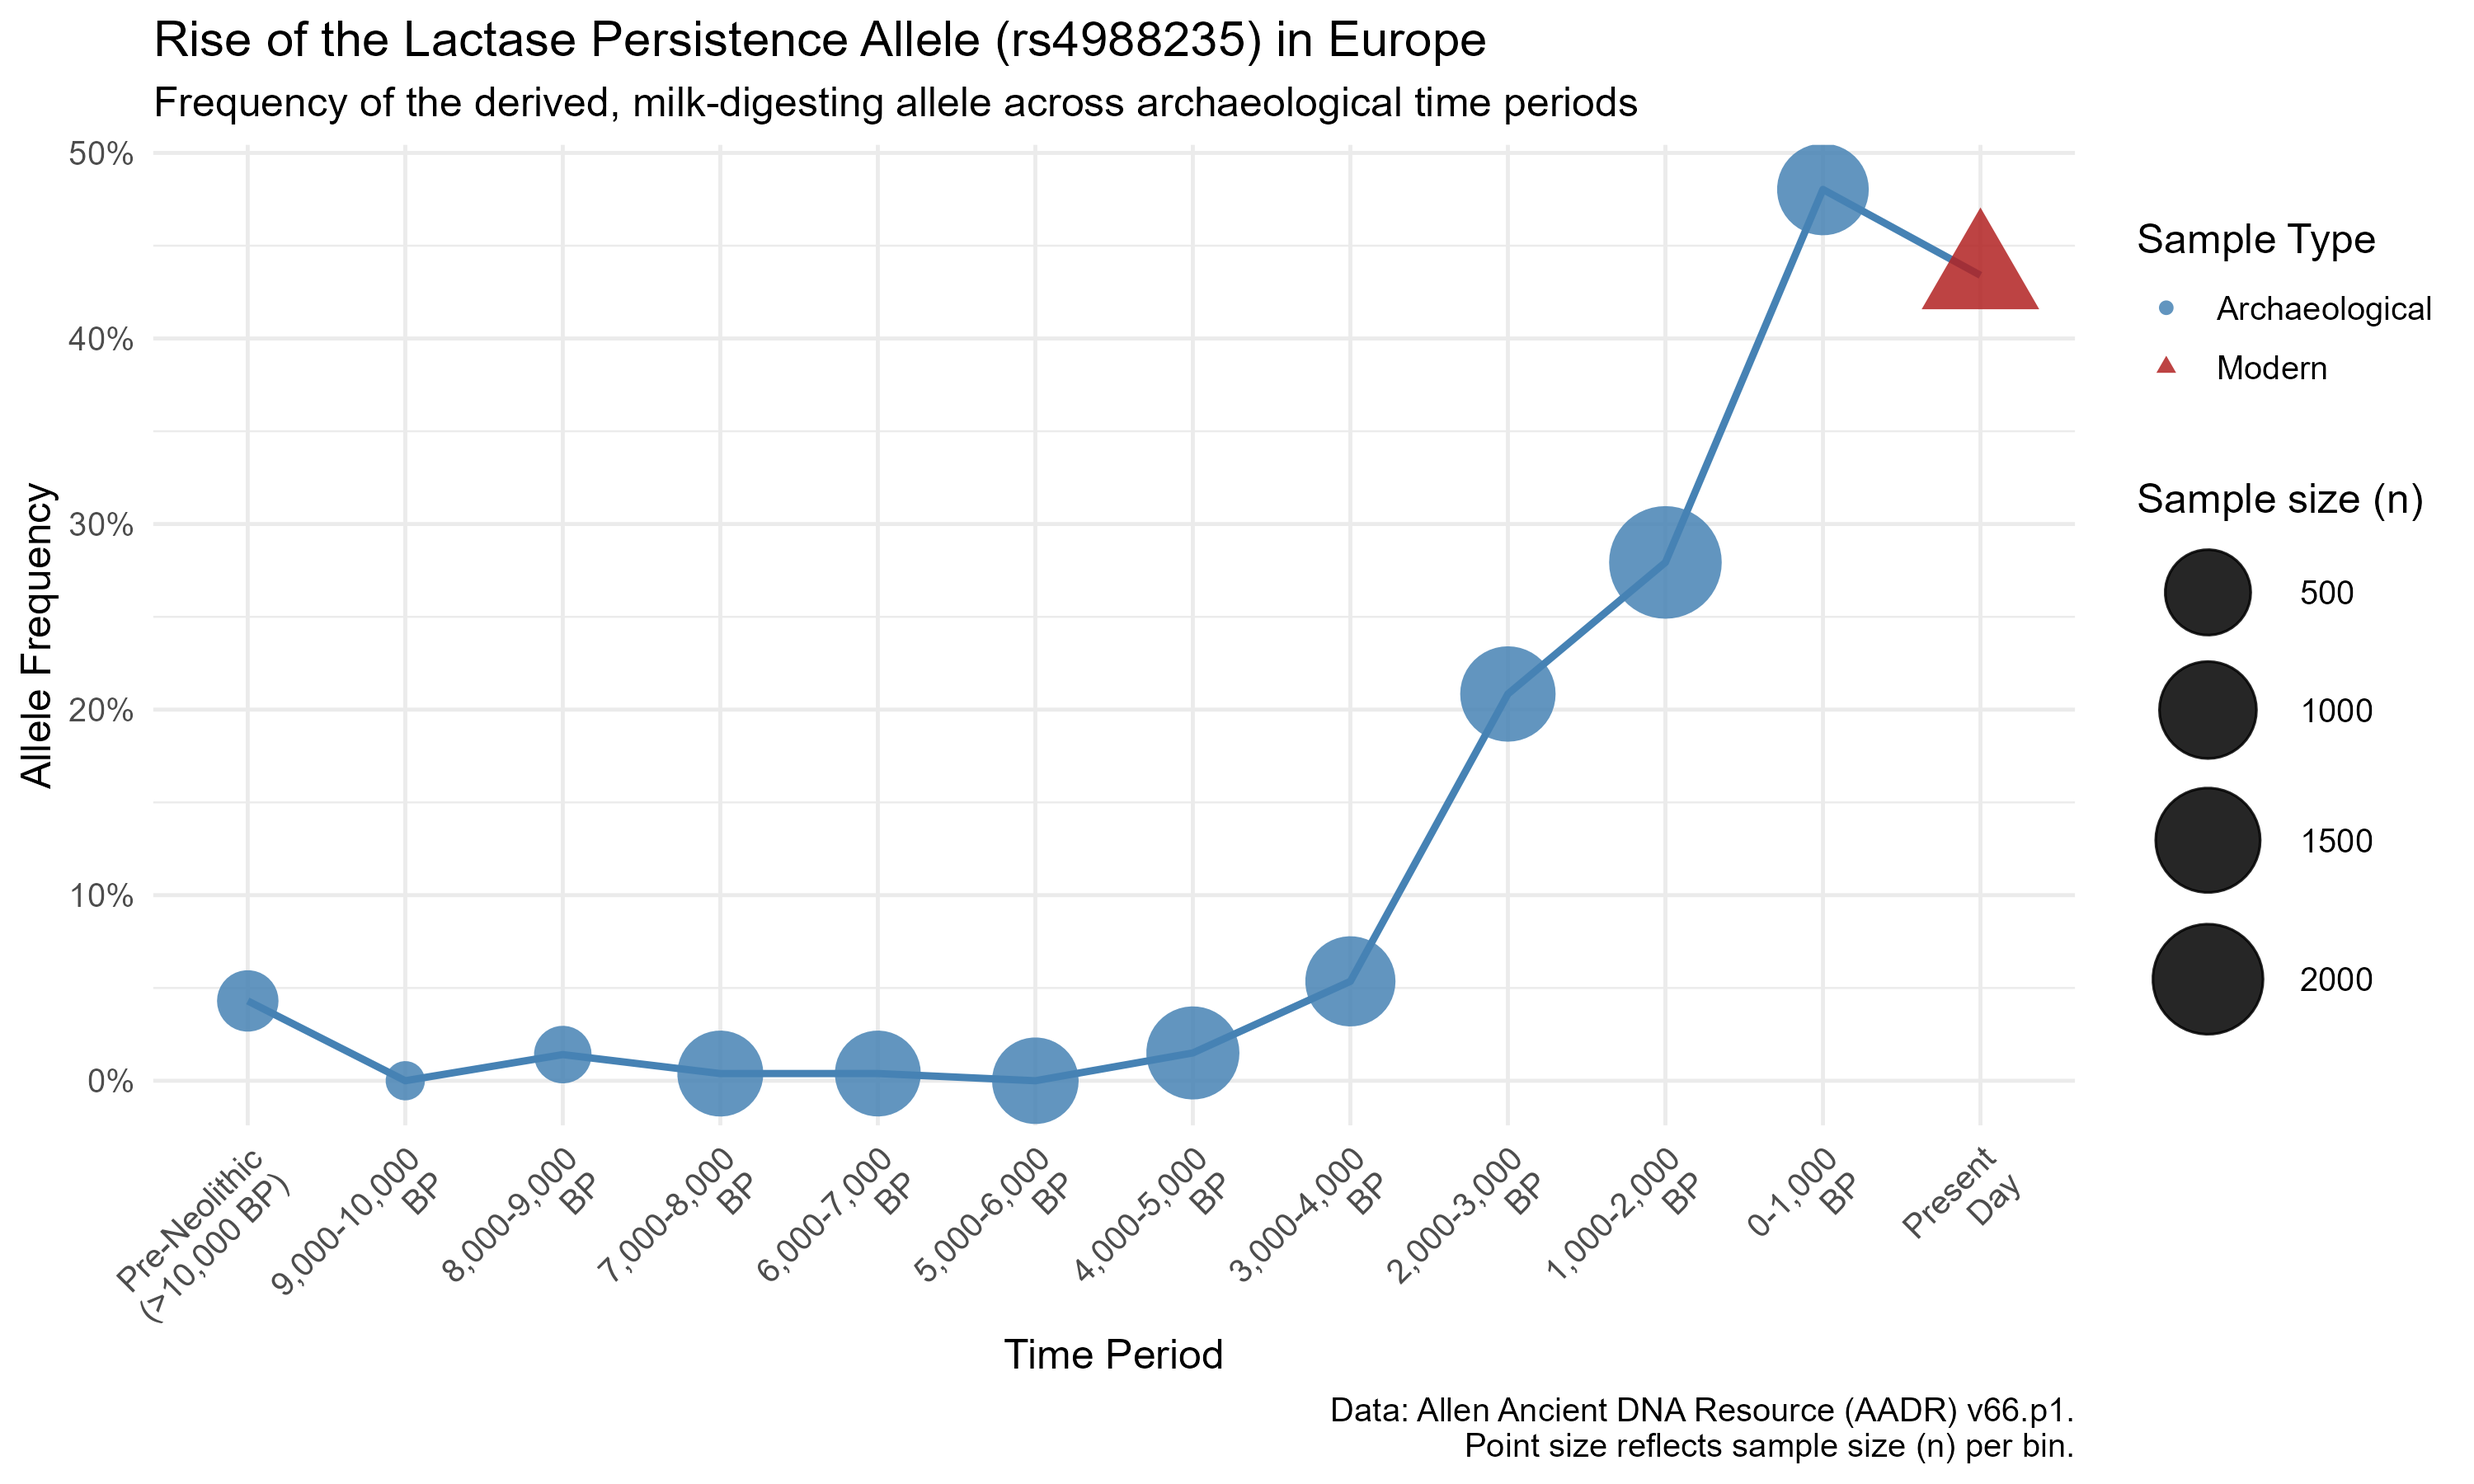
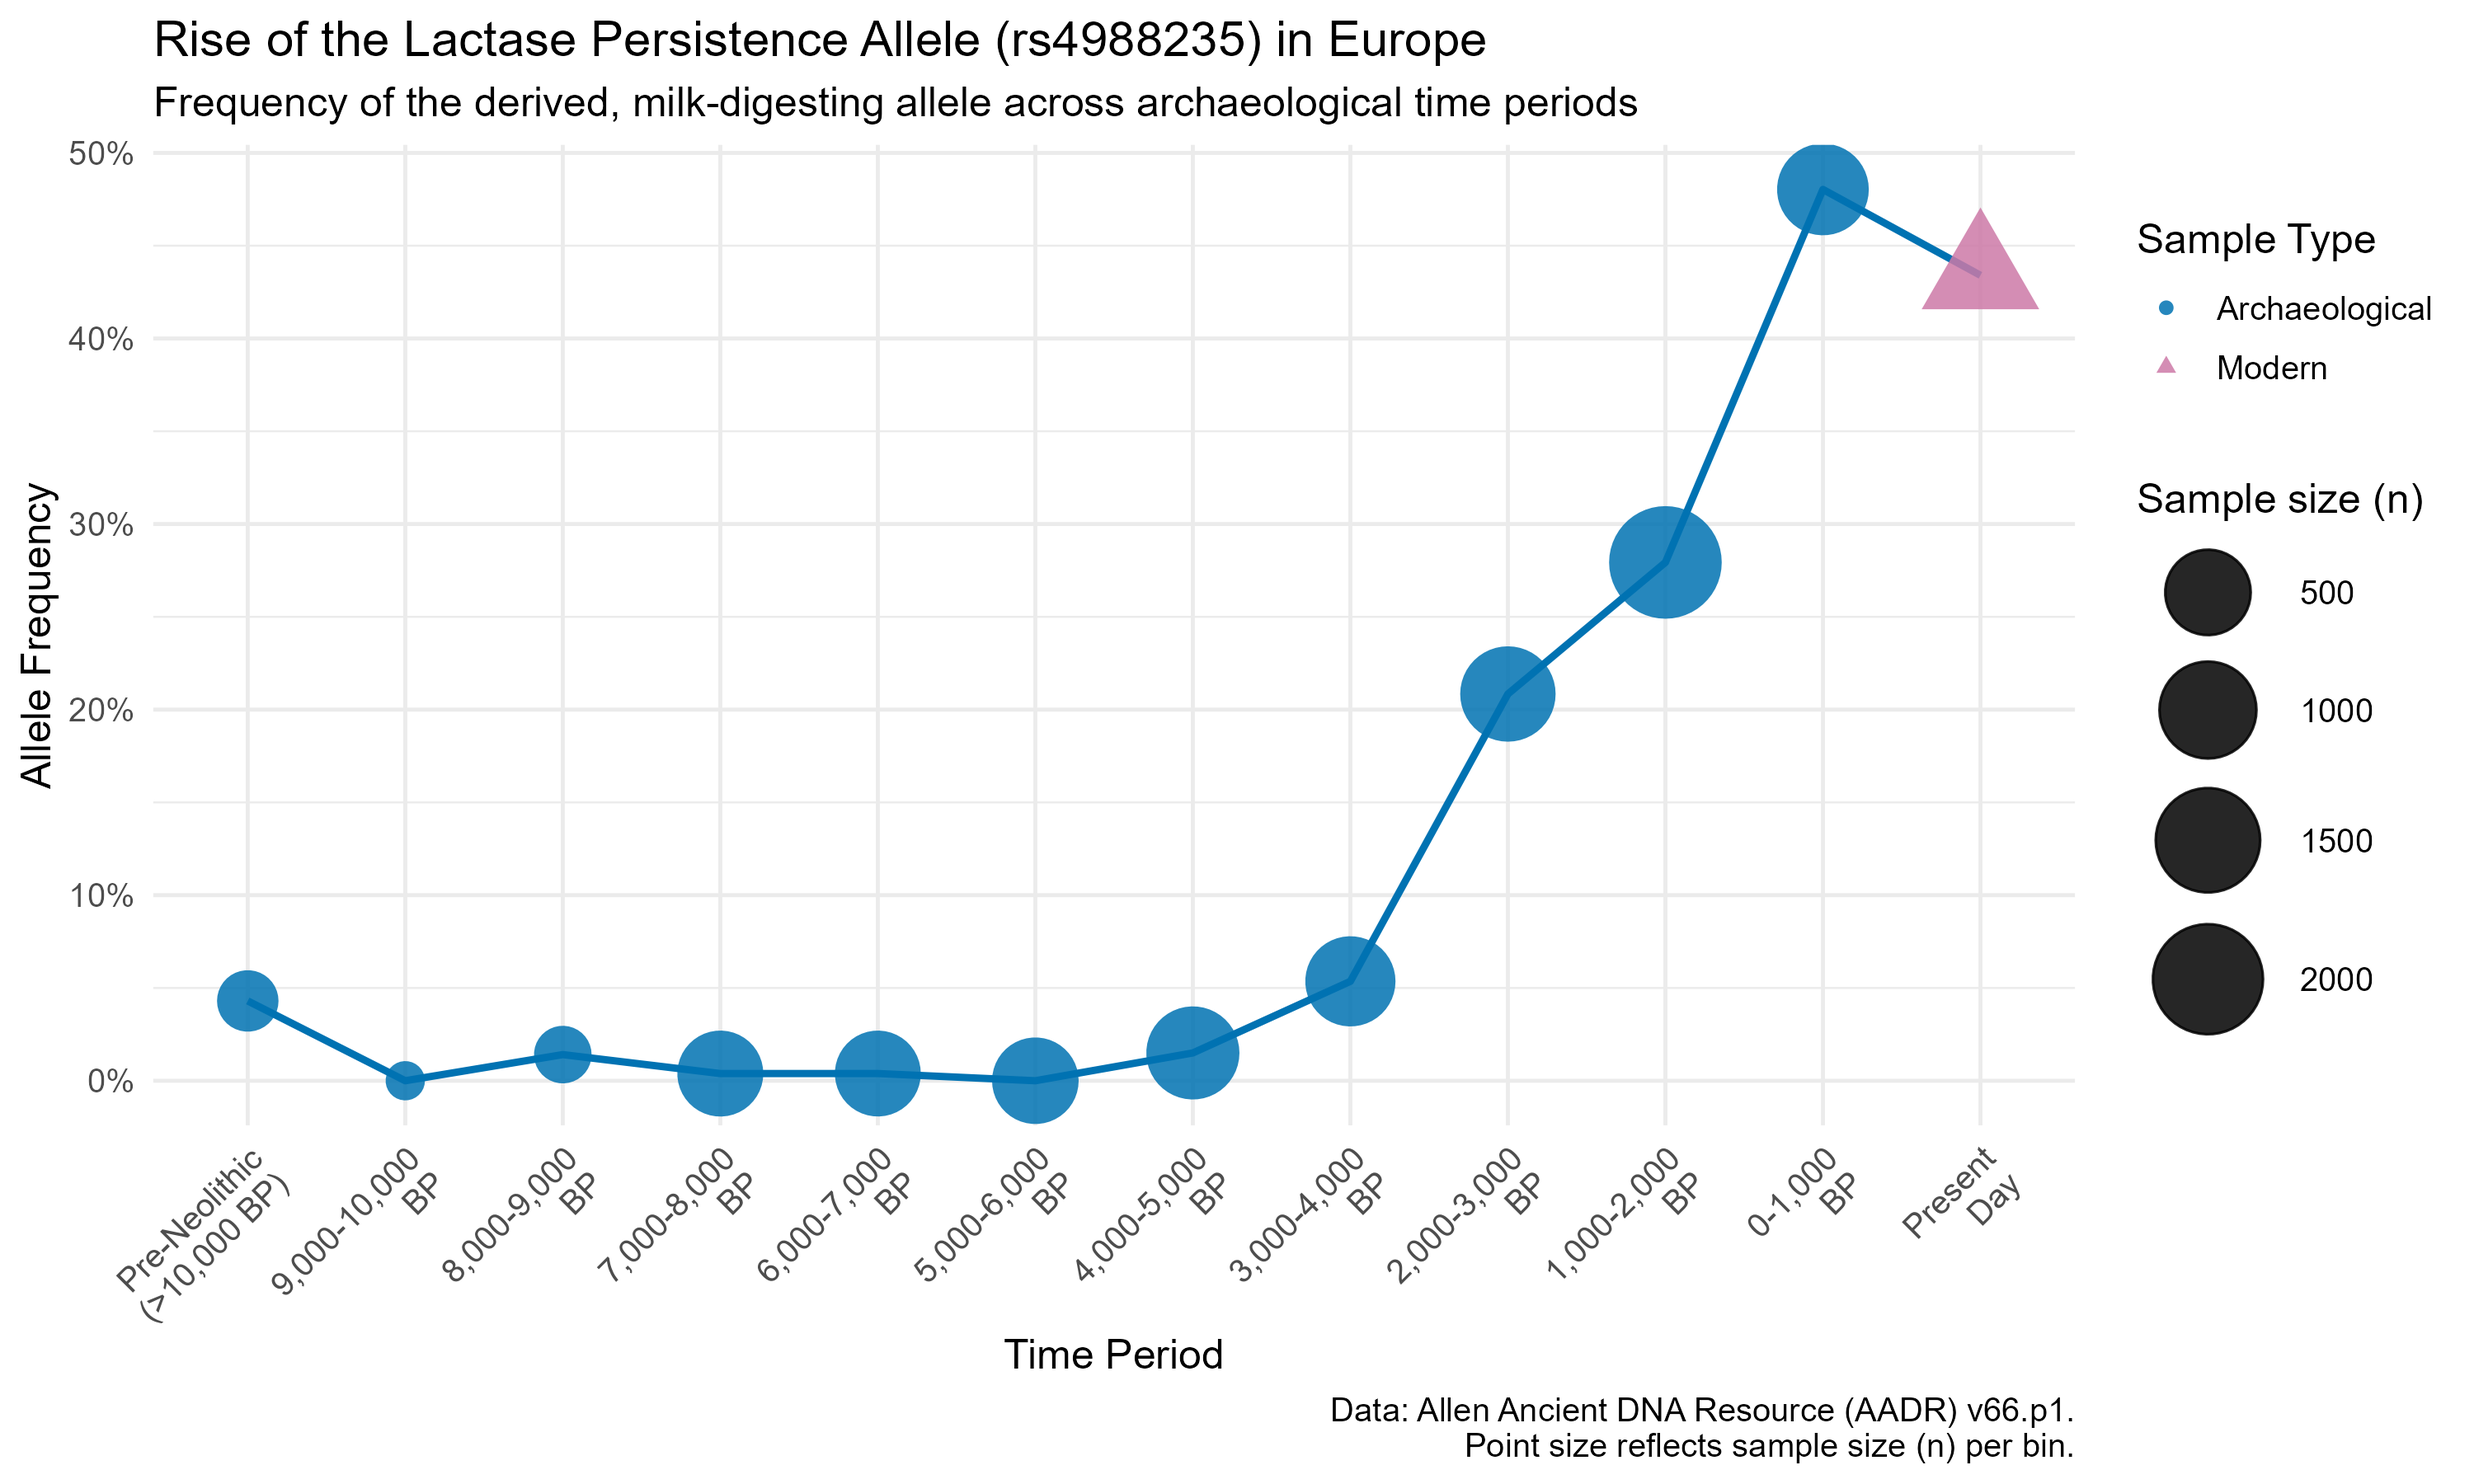
Finished all plots. All saved. Map saved. Updated the final AI Usage entries and added to notes.

diff --git a/AI_USAGE.md b/AI_USAGE.md
@@ -1,3 +1,5 @@
+# AI USAGE DOCUMENTATION
+Every answer Claude provided to the development of this project was pasted below as well as the reason it was used (my own words summarized for brevity). 
 ## Entry 1: 
 - **Tool:** Claude (Sonnet 5)
 - **What it was used for:** It was used to help me pull and clean the AADR data, run PLINK conversion through WSL2, decode how to interpret the converted PLINK file, clean, merge, subset, and time-bin the data (referencing literature for time-binning), section out modern populations, restructure bins based on the results of the presence of LP based on the pre 10000 BP populations (would disrupt the signal), validate data aggregation, and confirm alignment with current literature.
@@ -466,4 +468,24 @@ ancient_map$period <- cut(ancient_map$date_mean_bp,
                           right = FALSE,
                           labels = c("0-1,000 BP", "1,000-2,000 BP", "2,000-3,000 BP",
                                      "3,000-4,000 BP", "4,000-5,000 BP", "5,000+ BP"))
+```
+
+## Entry 6:
+- **Tool:** Claude (Sonnet 5.5)
+- **What I was doing:** I needed help organizing my LP individuals into a way that held one row per site and period so I could aggregate the points on my map plot. 
+- **Output:** 
+```r
+# A person is a "carrier" if their one allele read was the LP allele (A_count > 0)
+ancient_map$carrier <- ancient_map$A_count > 0
+ancient_map$one     <- 1     # helper column, so we can count people per site
+
+# One row per location x period: how many people (n) and how many carriers
+site_period <- aggregate(cbind(one, carrier) ~ latitude + longitude + period,
+                         data = ancient_map, FUN = sum)
+names(site_period)[names(site_period) == "one"]     <- "n"
+names(site_period)[names(site_period) == "carrier"] <- "carriers"
+
+site_period$carrier_found <- factor(ifelse(site_period$carriers > 0,
+                                           "Carrier found", "No carrier found"),
+                                    levels = c("No carrier found", "Carrier found"))
 ```

diff --git a/notes.md b/notes.md
@@ -18,4 +18,7 @@
 
 ## Current: Q2 
 12: Q1 V2: Geographic Map. 6 bins that align with the binning from Q1 V1 when the Steppe were introduced. 
-One thing to note, many of the coordinates showed rounded approximations of coordinates and should be described as such - approximate locations. Many individuals will also stack on the same dot, so they will be grouped into one dot per site. 3 lacked coordinates so they were excluded. Sampling is dense in the central Europe and British Isles and thin in the North East based off of the preliminary skeleton. I chose to go with size for the amount of individuals sampeled per location and the color to show at least one carrier of the LP allele. 
+One thing to note, many of the coordinates showed rounded approximations of coordinates and should be described as such - approximate locations. Many individuals will also stack on the same dot, so they will be grouped into one dot per site. 3 lacked coordinates so they were excluded. Sampling is dense in the central Europe and British Isles and thin in the North East based off of the preliminary skeleton. I chose to go with size for the amount of individuals sampeled per location and the color to show at least one carrier of the LP allele. White bordering was added for the visibility. The pattern of the dots fits the trend the Q1 time-series chart carries. The 5,000 BP panel shows almost every dot is no carrier with one green dot that looks like France. Green becomes common from 2,000-3,000 BP and dominates by 1,000-2,000. *The share of the green dots is not the allele frequency, the Q1 time-series chart shows that.*
+
+
+# All colors are chosen to be color blind friendly
